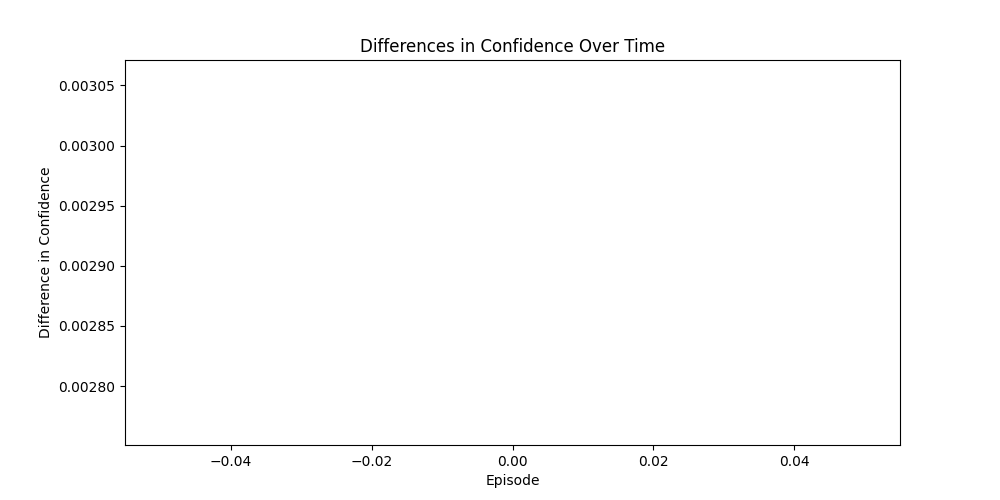
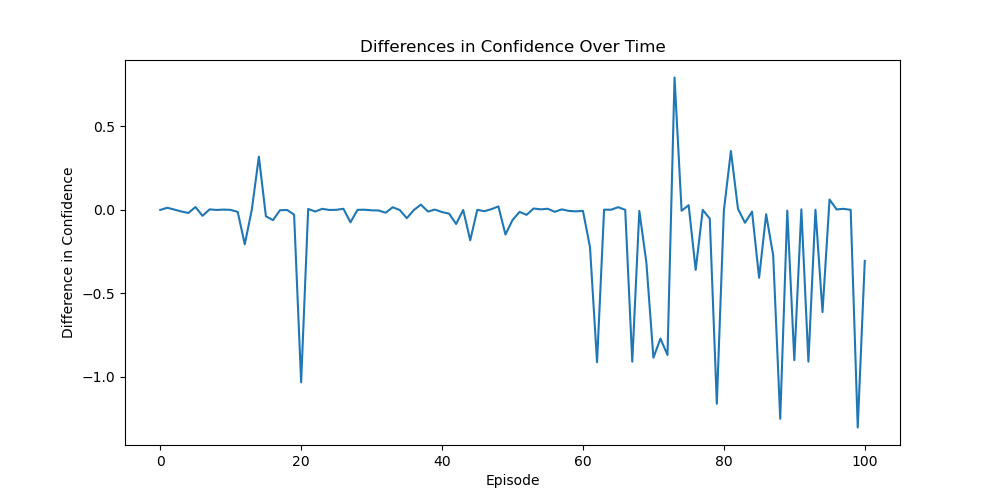
local res

diff --git a/DQ_processor.py b/DQ_processor.py
@@ -55,8 +55,8 @@ if __name__ == "__main__":
     batch_size = 32
     target_update_freq = 10
     memory_capacity = 10000
-    num_episodes = 100
-    num_experiments = 2
+    num_episodes = 1000
+    num_experiments = 10
     rewards = []
     differences = []
 
